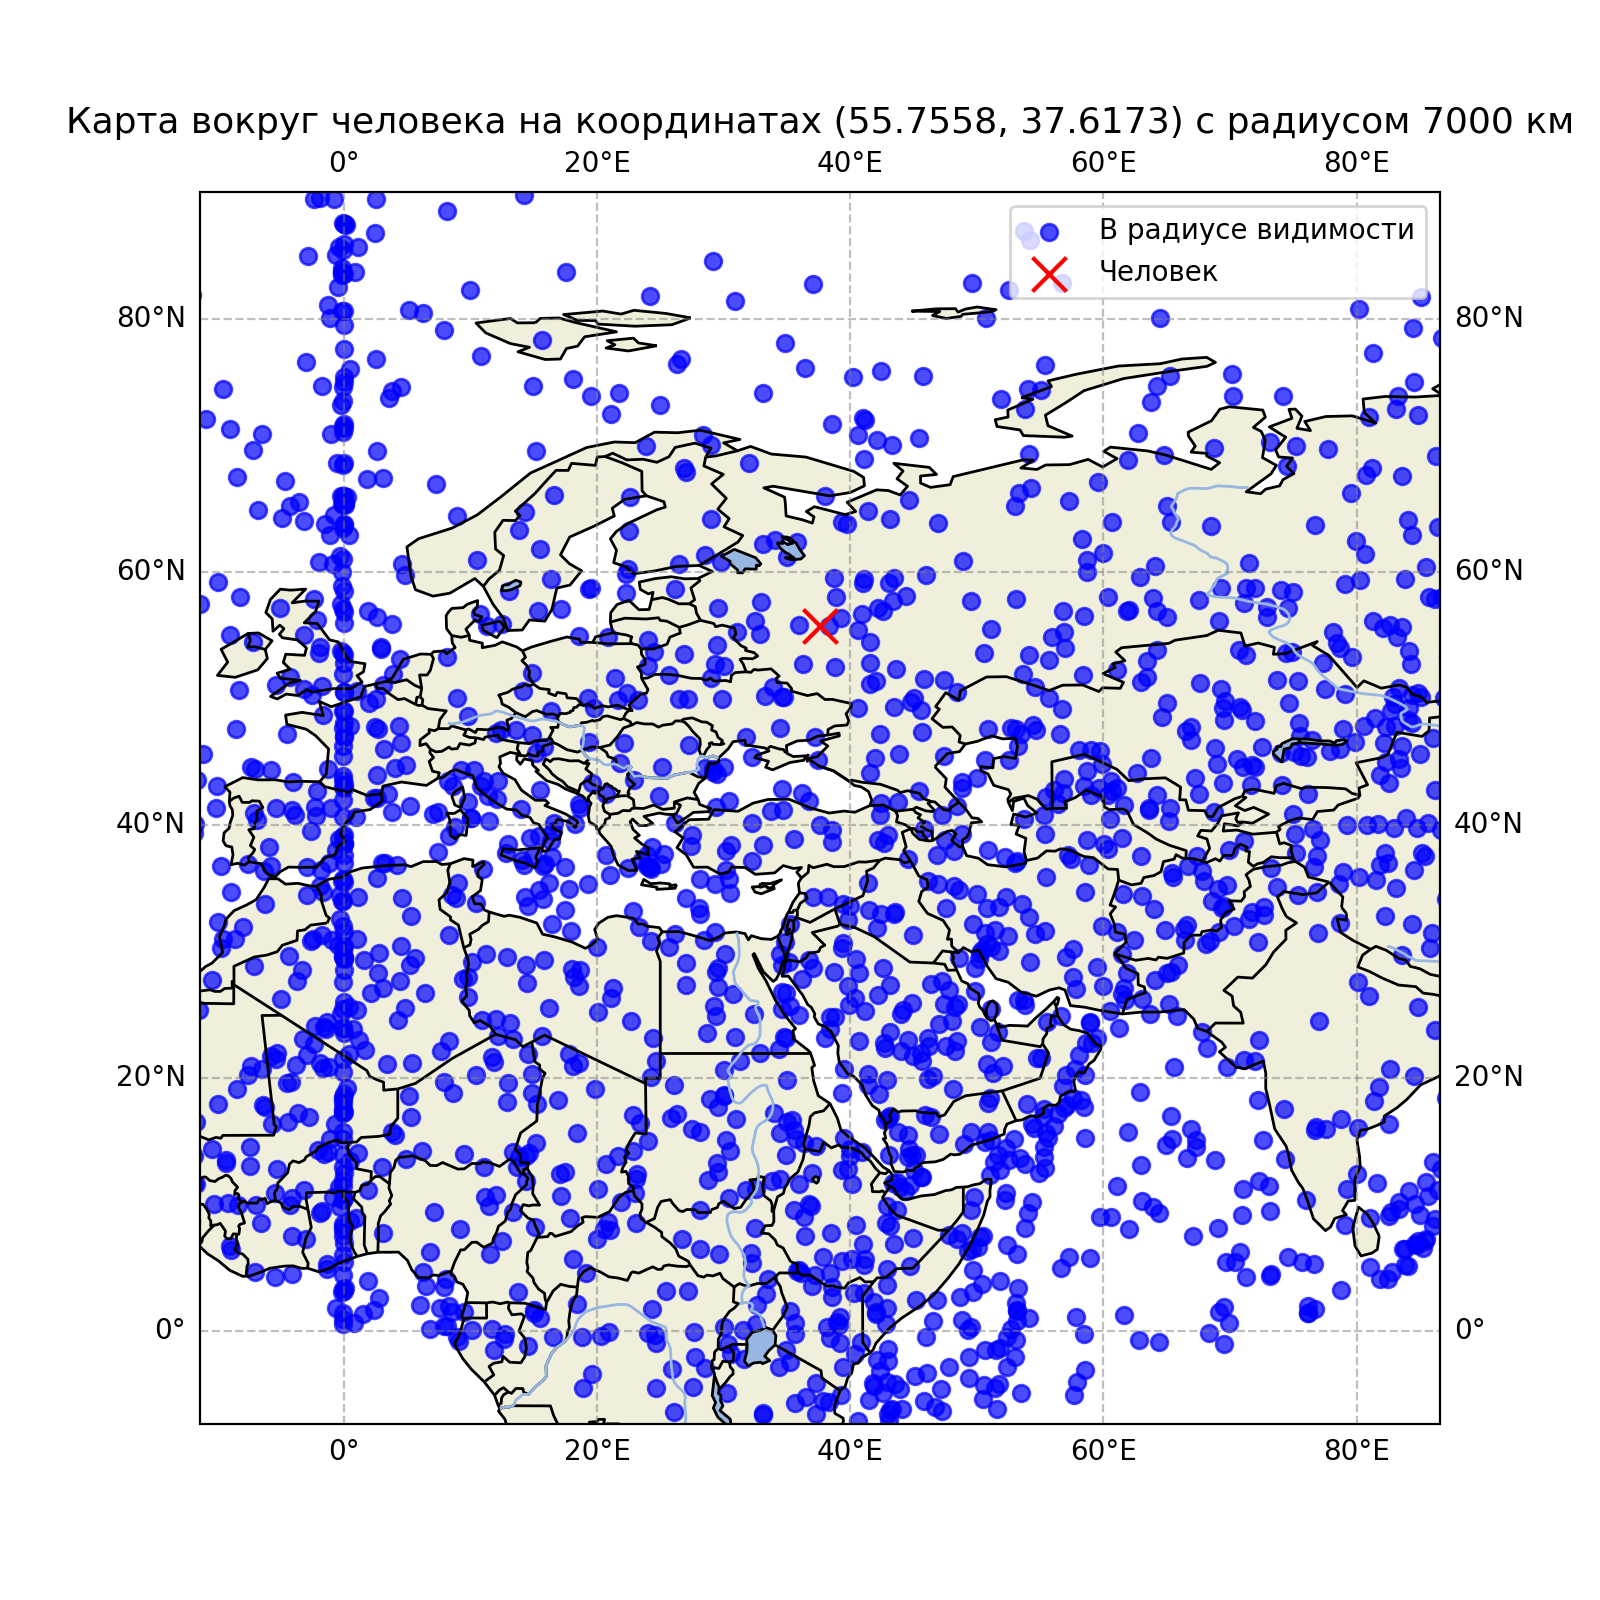
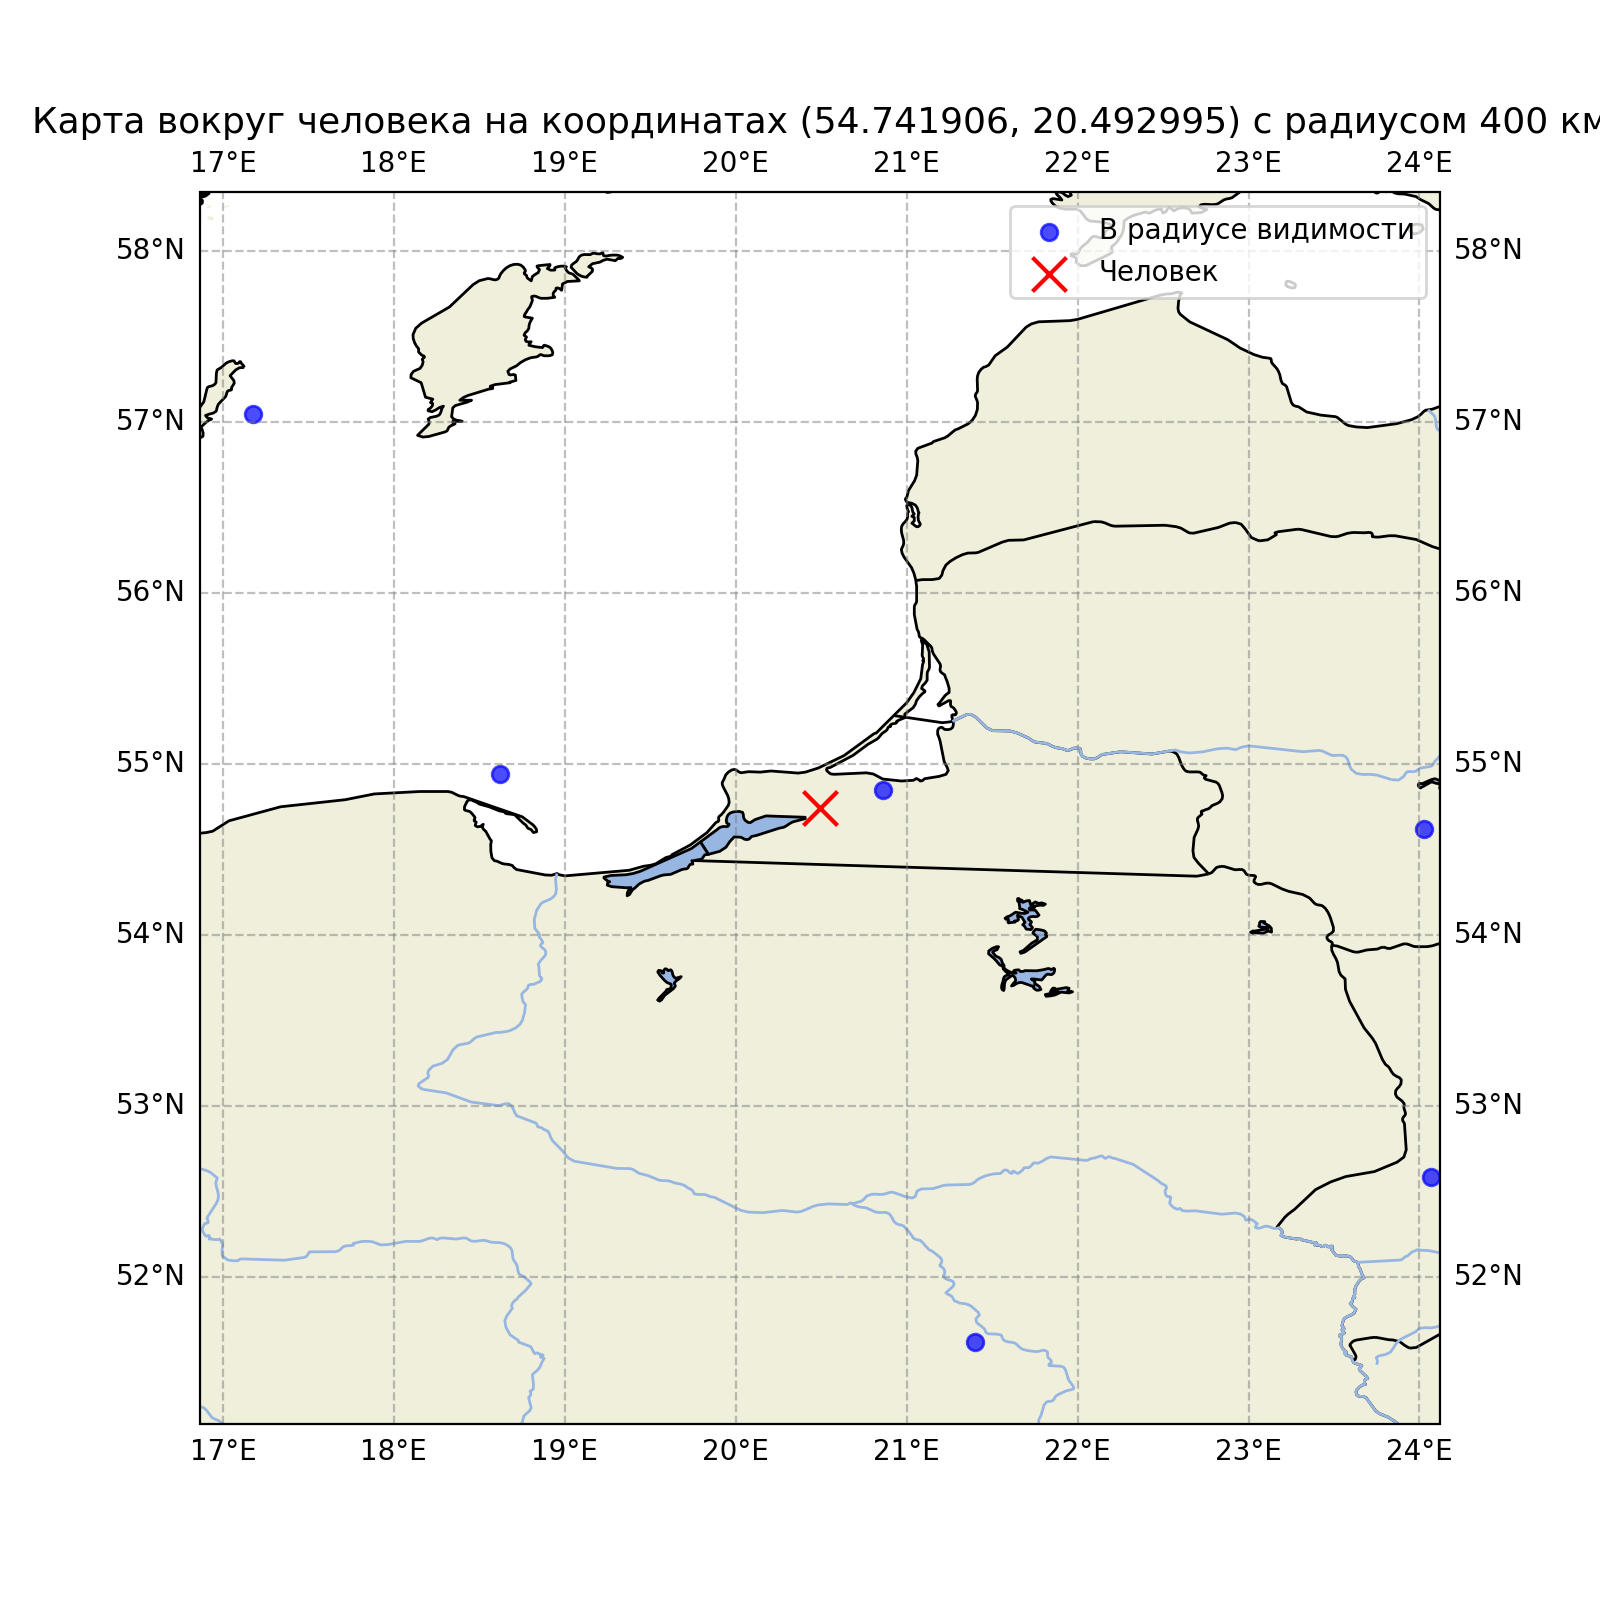
created my module

diff --git a/solver/src/main.py b/solver/src/main.py
@@ -11,7 +11,7 @@ def run(data, output_path):
     result_data_path = solve.run()
     handl = handler.Handler(result_data_path, output_path)
     handl.get_graphical_output(pars.get_user_graphical_data())
-    pars.get_map((54.741906,20.492995), 200)
+    pars.get_map((54.741906,20.492995), 400)
     
 
 if __name__ == '__main__':
